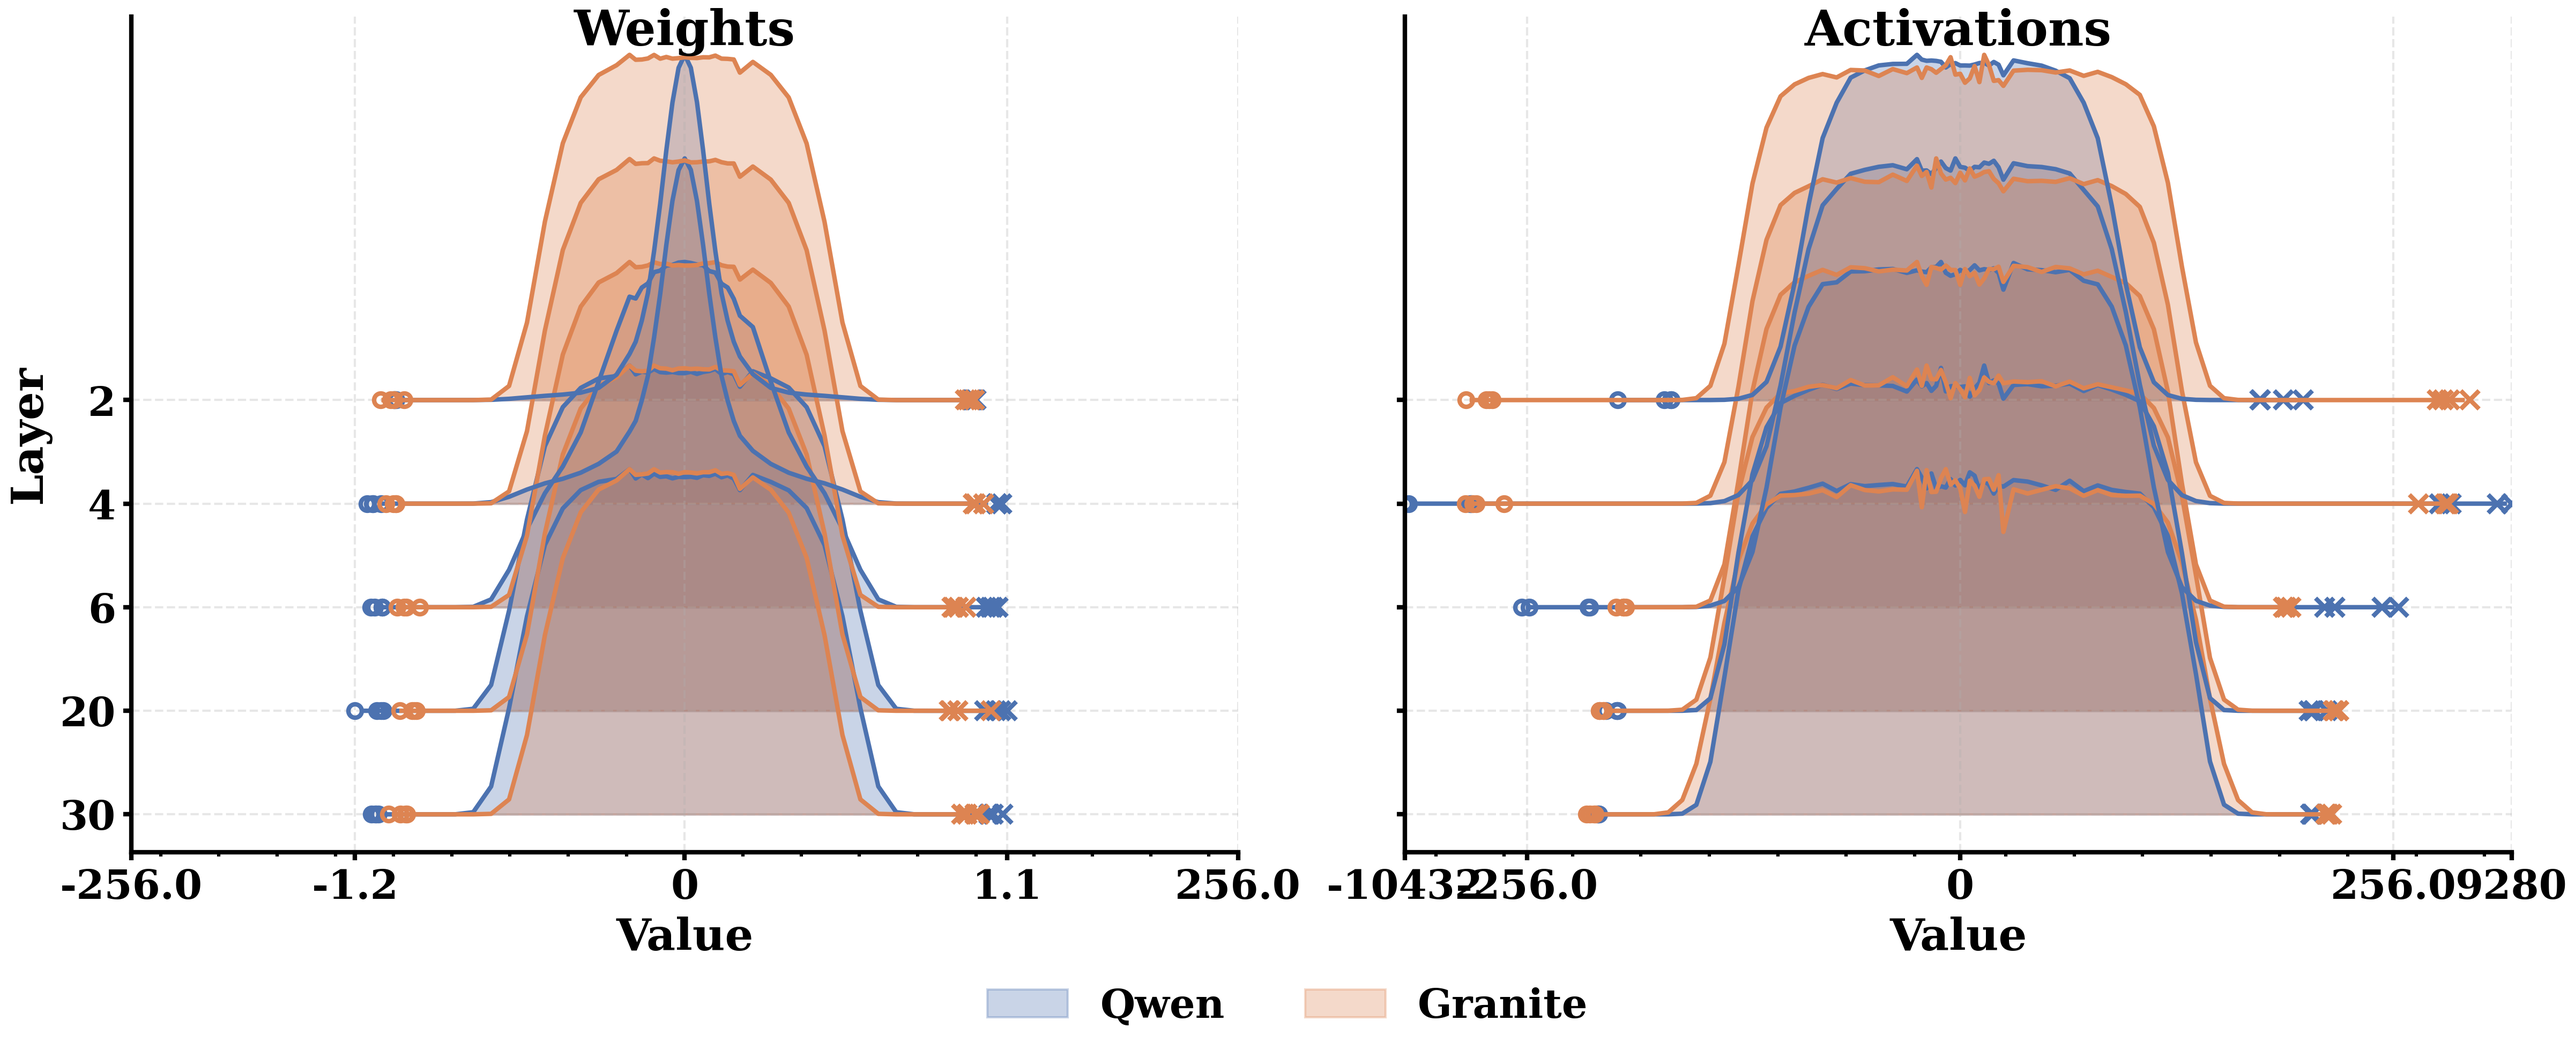
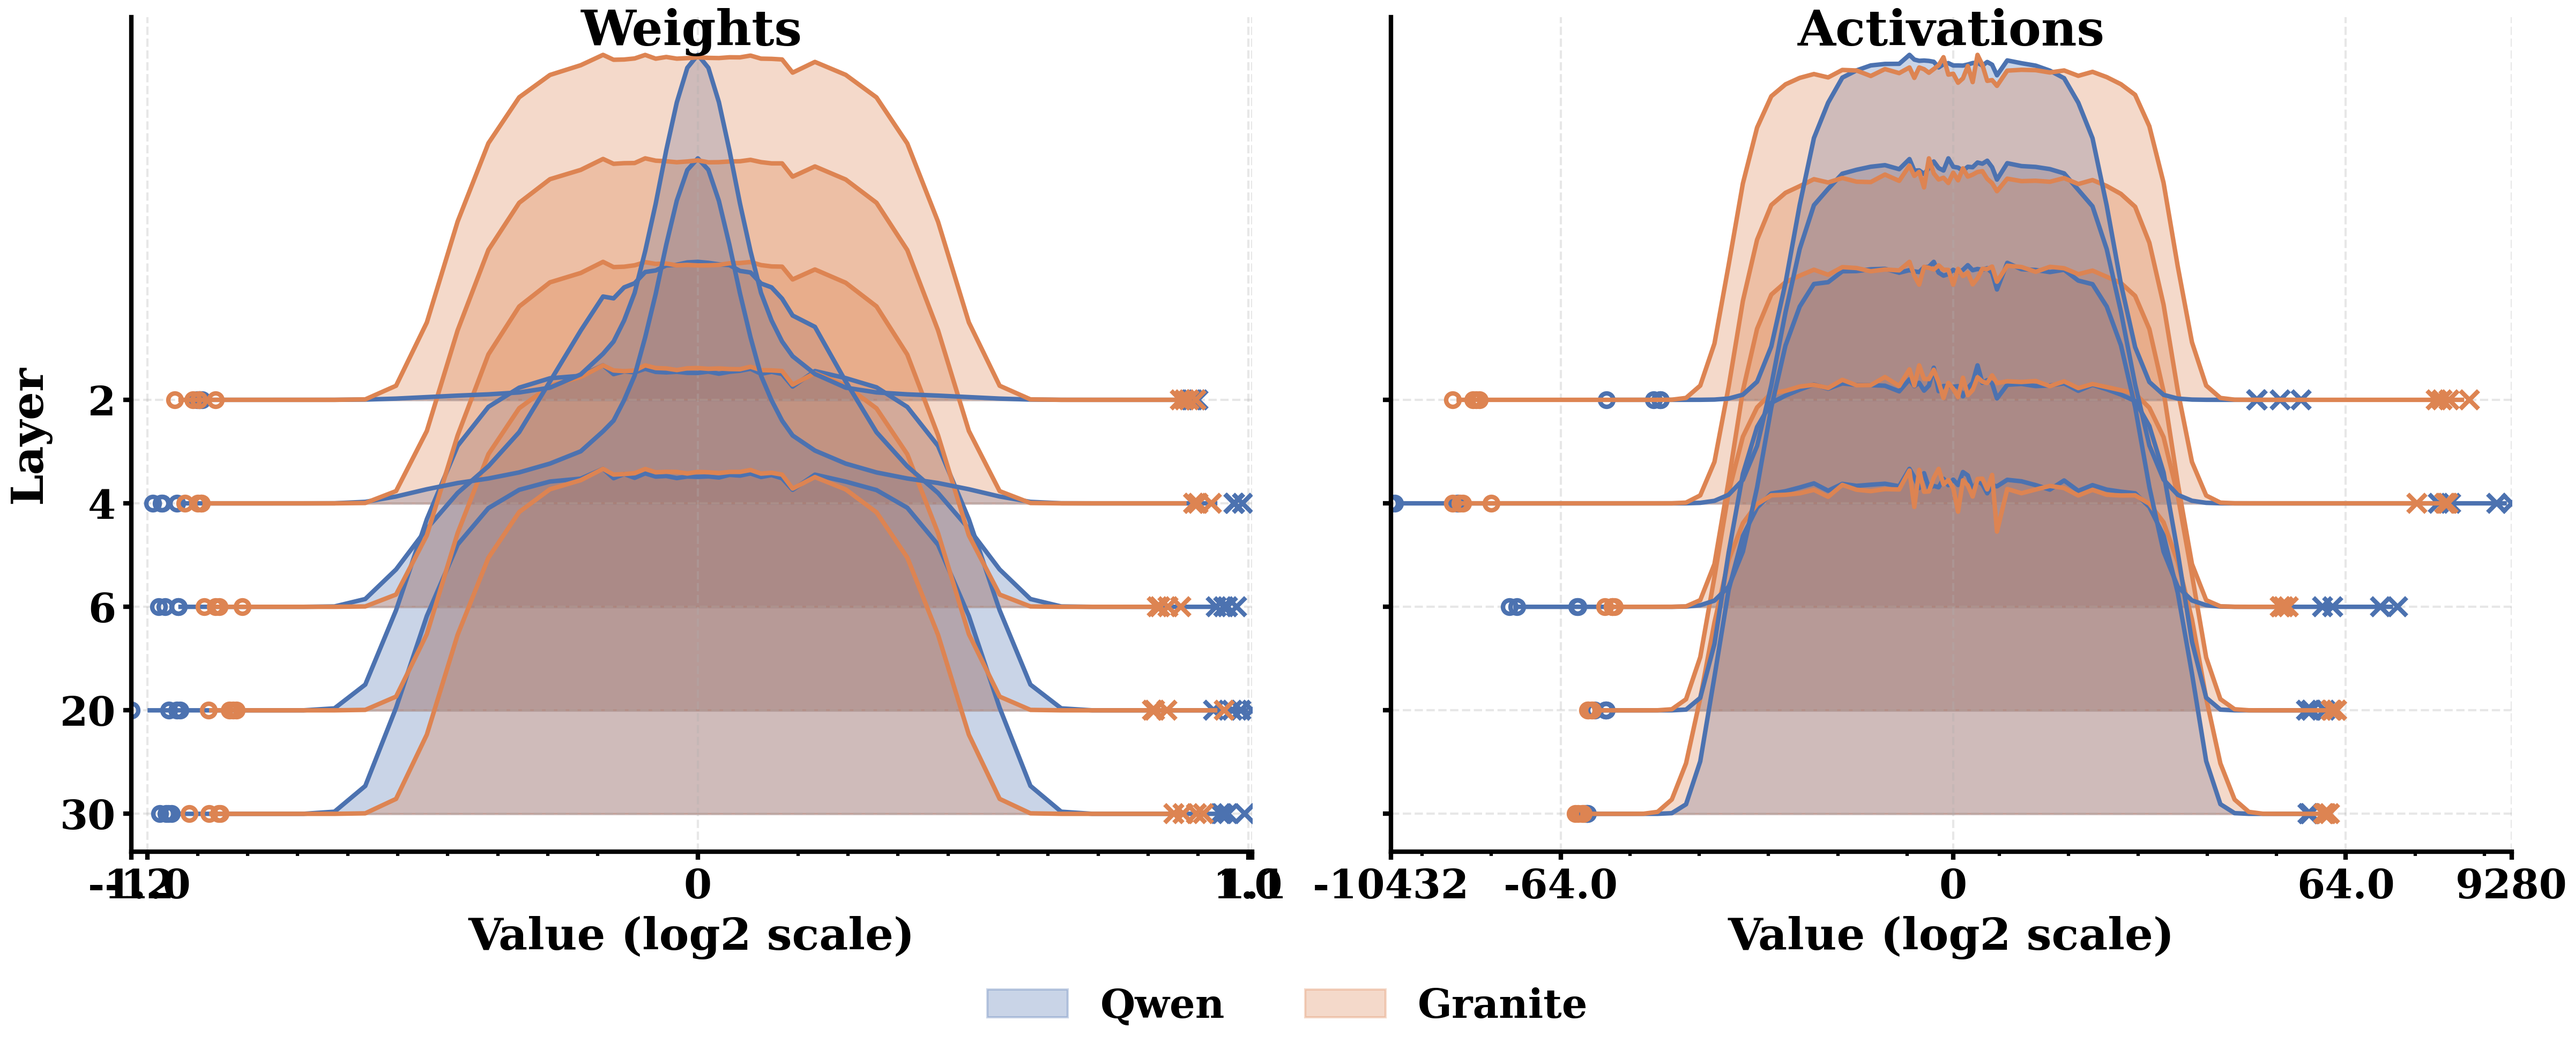
Remove phantom baseline rows and clean up tables

diff --git a/README.md b/README.md
@@ -120,14 +120,8 @@ This section is automatically updated by the evaluation script after each run. D
 ### Perplexity Gap All Models
 ![Perplexity Gap All Models](plots/gap_all_models.png)
 
-### Weights and Activations Distributions (Base 10)
-![Base 10](plots/qwen_vs_granite_dist_base10.png)
-
-### Weights and Activations Distributions (Base 2)
-![Base 2](plots/qwen_vs_granite_dist_base2.png)
-
-### Weights and Activations Distributions (Base e)
-![Base e](plots/qwen_vs_granite_dist_basee.png)
+### Weights and Activations Distributions
+![Weights and Activations Distributions](plots/qwen_vs_granite_dist.png)
 
 
 
